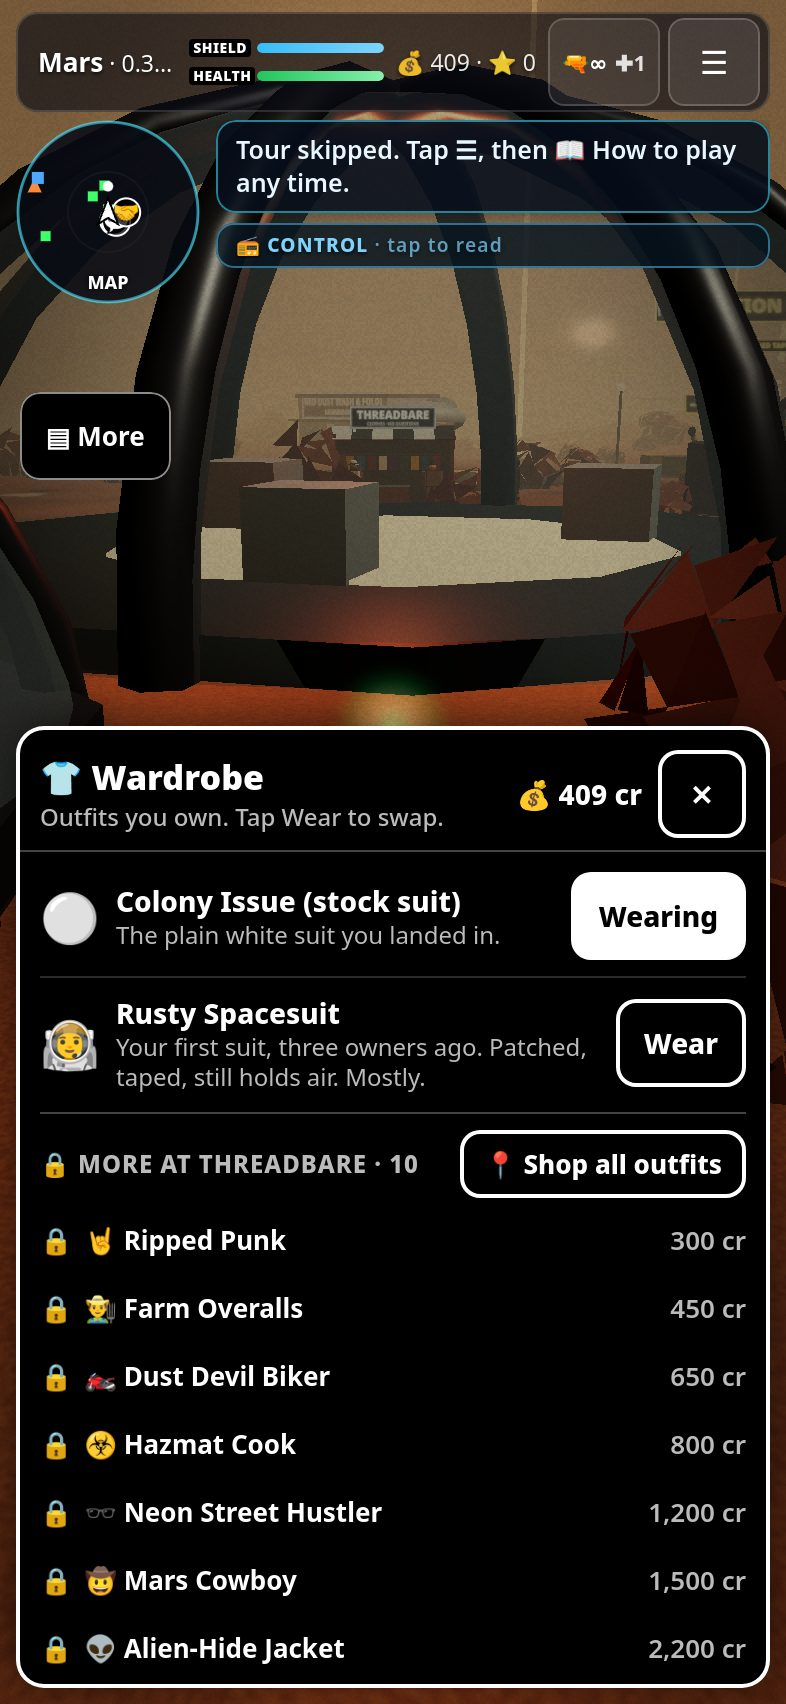
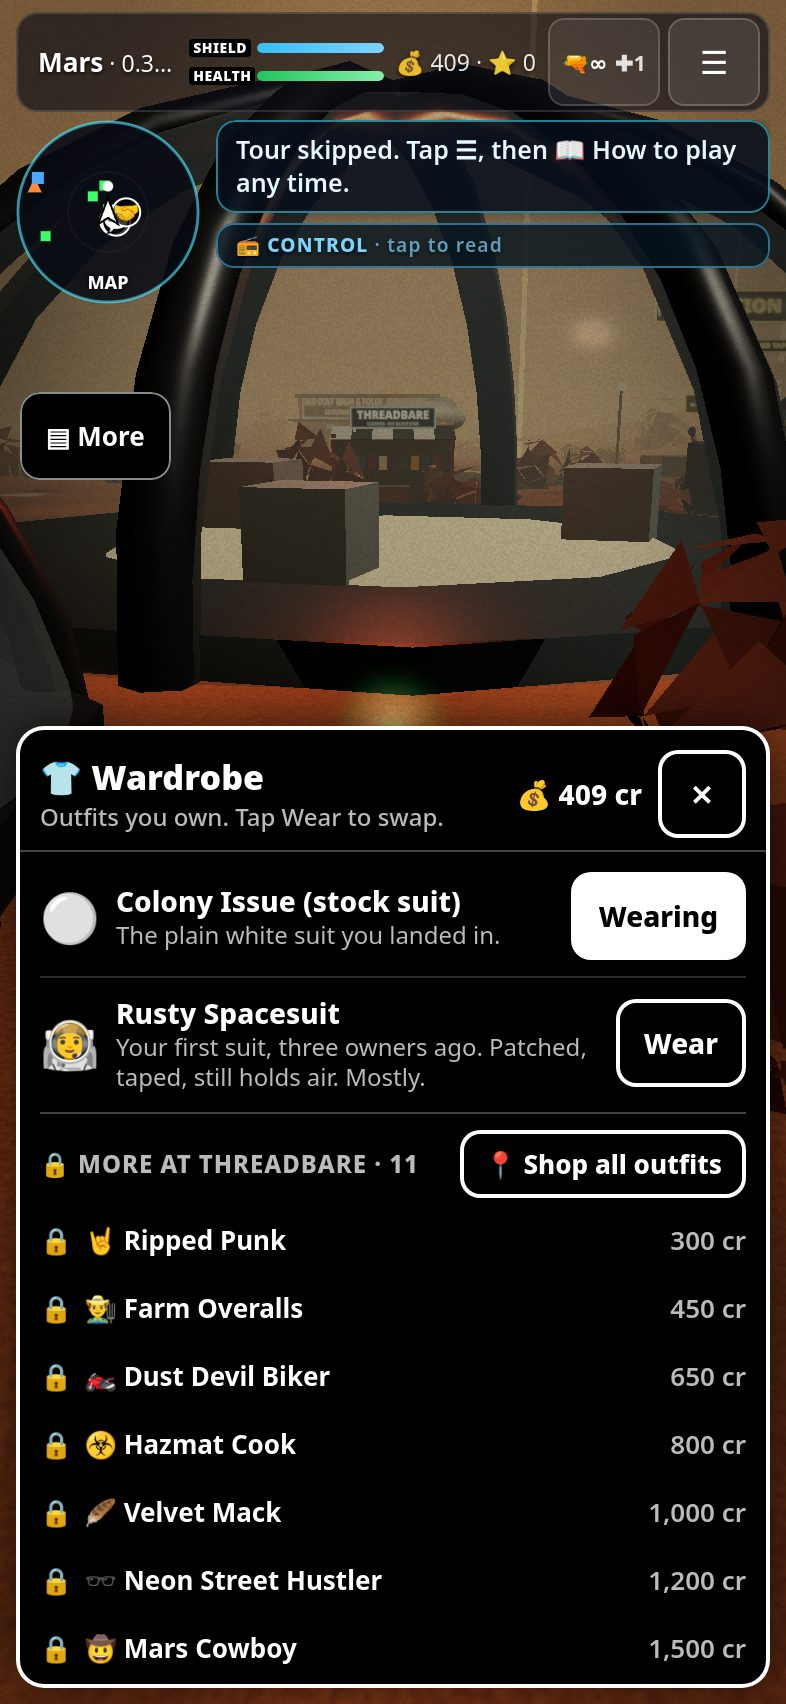
Threadbare: Velvet Mack skin (1,000 cr) — feathered brim, crushed-velvet suit + fur collar, gold chains, shades, jeweled cane that hides while a weapon is out; wardrobe/locked-row tests + shots

diff --git a/tests/test-velvet-mack.js b/tests/test-velvet-mack.js
@@ -1,0 +1,71 @@
+// Velvet Mack (mars/skinscore.js 'mack', 1,000 cr): sold at the Threadbare stall between Hazmat Cook and Neon Street Hustler,
+// buys with a real tap, goes on the player rig (hat + feather, velvet suit + fur collar, chains, shades, cane in the right
+// hand), and the cane (skin.prop) hides while a weapon is out: firing (2.5 s after the last shot) and the machete equipped,
+// then comes back. Shots: front, side, machete drawn.
+// BASE=http://127.0.0.1:8978/ BR=webkit DEV=393x852 QS='look=classic&models=1' SHOTS_DIR=... node tests/test-velvet-mack.js
+const { chromium, webkit, devices } = require('playwright');
+const base = process.env.BASE || 'http://127.0.0.1:8978/', BR = process.env.BR || 'webkit', DEV = process.env.DEV || '393x852', QS = process.env.QS ?? 'look=classic&models=1';
+const out = (process.env.SHOTS_DIR || require('path').join(__dirname, '..', 'shots')) + '/';
+const sleep = ms => new Promise(r => setTimeout(r, ms));
+const tag = `velvet-mack-${DEV}-${BR}`.replace(/[^a-z0-9]+/gi, '-').toLowerCase();
+(async () => {
+  require('fs').mkdirSync(out, { recursive: true });
+  const browser = await (BR === 'webkit' ? webkit : chromium).launch({ args: BR === 'chromium' ? ['--use-gl=angle', '--use-angle=swiftshader', '--enable-unsafe-swiftshader', '--ignore-gpu-blocklist'] : [] });
+  const m = /^(\d+)x(\d+)$/.exec(DEV), { defaultBrowserType: _d, ...iph } = devices['iPhone 14'];
+  const ctx = await browser.newContext({ ...iph, viewport: { width: +m[1], height: +m[2] }, screen: { width: +m[1], height: +m[2] }, deviceScaleFactor: 2 }); const page = await ctx.newPage();
+  const errors = []; page.on('pageerror', e => { if (!/audio device/i.test(e.message)) errors.push('PE ' + e.message); }); page.on('console', m => { if (m.type() === 'error' && !/audio device|Failed to load resource/i.test(m.text())) errors.push('CE ' + m.text().slice(0, 200)); });
+  const G = (f, a) => page.evaluate(f, a), R = { tag }, bad = [];
+  const ok = (k, v, cond) => { if (cond === undefined) cond = v; R[k] = v ?? !!cond; if (!cond) bad.push(k); console.log(`${cond ? 'PASS' : 'FAIL'} ${k} ${typeof v === 'boolean' ? '' : JSON.stringify(v)}`); };
+  const wait = async (f, ms = 30000, a) => { try { await page.waitForFunction(f, a, { timeout: ms, polling: 60 }); return true; } catch (e) { return false; } };
+  const shot = async s => { const p = `${out}${tag}-${s}.png`; try { await page.screenshot({ path: p, timeout: 120000 }); (R.shots ||= []).push(p); } catch (e) { (R.shotFail ||= []).push(p); } };
+  const P = (t, sel, id) => G(([t, sel, id]) => { const e = document.querySelector(sel); if (!e) return false; const r = e.getBoundingClientRect(); e.dispatchEvent(new PointerEvent(t, { pointerId: id, pointerType: 'touch', isPrimary: true, clientX: r.left + r.width / 2, clientY: r.top + r.height / 2, bubbles: true, cancelable: true, composed: true, buttons: t === 'pointerup' ? 0 : 1 })); return true; }, [t, sel, id]);
+  const tap = async sel => { const a = await P('pointerdown', sel, 61); await sleep(40); await P('pointerup', sel, 61); await sleep(150); return a; };
+  const cr = () => G(() => window.__app.surface.game.progress.credits);
+  const S = () => G(() => window.SSX.skins.state()), prop = () => G(() => window.SSX.skins.prop());
+  const atShop = async (d = 3) => { await G(d => { const p = window.SSX.skins.at(); window.__app.surface.debugPlace(p.x - Math.sin(p.yaw) * d, p.z - Math.cos(p.yaw) * d, p.yaw + Math.PI); }, d); await sleep(900); };
+  const cam = async yaw => { await G(yaw => { const s = window.__app.surface; s.setView('third'); s.zoom(0.45); s.look(0, -10, 1); s.look(yaw, 1.45 + 0.22, 1); }, yaw); await sleep(1000); };
+  try {
+    await page.goto(base + '?' + QS + (QS ? '&' : '') + 't=' + Date.now()); await wait(() => window.__frames > 3 && !document.getElementById('loading'), 120000);
+    await G(() => localStorage.clear()); await page.reload(); await wait(() => window.__frames > 3 && !document.getElementById('loading'), 120000);
+    await G(() => { localStorage.setItem('ssx.adult', '1'); localStorage.setItem('ssx.onboard.v1', '{"v":1,"status":"done","done":true,"skipped":true}'); });
+    await G(() => window.__app.landOn(window.__app.bodies.find(b => b.name === 'Mars').mesh));
+    await wait(() => window.__app.state.onSurface && !window.__app.state.transitioning && window.__app.surface.info?.intro === 0, 120000); await sleep(1000);
+    if (await G(() => { const r = document.getElementById('radio'); return !!r && getComputedStyle(r).display !== 'none'; })) await G(() => document.getElementById('radioLater')?.click());
+    await G(() => { try { window.SSX.onboard?.skip?.(); } catch (e) { } try { window.__app.surface.world.setWanted(0); window.__app.game?.setAliens?.(false); window.SSX.time?.set?.(13); window.SSX.time?.freeze?.(true); window.SSX.hudx?.setWaypoint?.(null, true); } catch (e) { /* */ } });
+    await wait(() => !!window.SSX?.skins && !!window.__skins?.stall?.() && !!window.__skins.player(), 20000);
+    const cat = await G(() => window.SSX.skins.list().map(k => k.id + ':' + k.price));
+    ok('catalogueOrder', cat, cat.join().includes('hazmat:800,mack:1000,hustler:1200') && cat.length === 12);
+    await G(() => { window.__app.surface.game.progress.credits = 1200; });
+    await atShop(3); ok('near', await G(() => window.SSX.skins.near()));
+    await tap('#skBtn'); ok('shopOpens', await wait(() => document.getElementById('skPanel').classList.contains('open') && /Threadbare/.test(document.querySelector('#skPanel .t').textContent), 4000));
+    await G(() => document.querySelector('#skPanel .row[data-id="mack"]')?.scrollIntoView({ block: 'center' })); await sleep(400);
+    const rowTx = await G(() => document.querySelector('#skPanel .row[data-id="mack"]')?.textContent || '');
+    ok('shopRow', rowTx, /Velvet Mack/.test(rowTx) && /Buy · 1,000 cr/.test(rowTx));
+    ok('shopRowOrder', await G(() => [...document.querySelectorAll('#skPanel .row')].map(r => r.dataset.id).slice(4, 7).join()), (await G(() => [...document.querySelectorAll('#skPanel .row')].map(r => r.dataset.id).slice(4, 7).join())) === 'hazmat,mack,hustler');
+    await shot('shop-row');
+    await tap('#skPanel .row[data-id="mack"] button'); await sleep(400);
+    const s1 = await S(); ok('bought', { s1, cr: await cr() }, s1.owned.includes('mack') && s1.eq === 'mack' && s1.applied === 'mack' && s1.parts >= 10 && (await cr()) === 200);
+    await tap('#skPanel button[data-a="x"]');
+    const p0 = await prop(); ok('caneShown', p0, p0.shown && p0.meshes >= 3 && !p0.out);
+    ok('caneInHand', await G(() => { const a = window.__skins.player().applied, k = window.__skins.C.BY_ID.mack; return a.anchors.filter(an => an.children.some(o => k.prop.some(key => o.material === window.__skins.mats.get(window.__skins.C.matKey(window.__skins.C.matSpec(k, key)))))).map(an => an.name); }), true);
+    await atShop(4.5); await cam(Math.PI); await shot('front');
+    await cam(Math.PI / 2); await shot('side');
+    // the machete drawn: cane hides; back to the blaster: cane back
+    await G(() => { const g = window.__app.surface.game; if (!g.progress.unlocks.includes('melee:blade')) g.progress.unlocks.push('melee:blade'); g.switchWeapon('blade'); }); await sleep(600);
+    const p3 = await prop(); ok('caneHidesMelee', { p3, w: await G(() => window.__app.surface.game.progress.equip.weapon) }, p3.out === 'melee' && !p3.shown);
+    await cam(Math.PI * 0.75); await shot('weapon-drawn');
+    await G(() => window.__app.surface.game.switchWeapon('rifle')); await sleep(600);
+    const p4 = await prop(); ok('caneBackAfterMelee', { p4, w: await G(() => window.__app.surface.game.progress.equip.weapon) }, p4.shown && !p4.out);
+    // firing (a shot counted, without real bolts in town, which brings the cops): cane hides, back ~2.5 s after the last shot
+    await G(() => { const st = window.__app.surface.game.progress.stats; st.shots = (st.shots || 0) + 1; }); await sleep(300);
+    const p1 = await prop(), shots = await G(() => window.__app.surface.game.progress.stats?.shots);
+    ok('caneHidesFiring', { p1, shots }, p1.out === 'firing' && !p1.shown);
+    await sleep(3000); const p2 = await prop(); ok('caneBackAfterFiring', p2, p2.shown && !p2.out);
+    // another skin: no prop
+    await G(() => window.SSX.skins.equip('rusty')); await sleep(300); const p5 = await prop(); ok('noPropOtherSkin', p5, p5.meshes === 0);
+    await G(() => window.SSX.skins.equip('mack')); await sleep(300); ok('reEquipCane', await prop(), (await prop()).shown);
+  } catch (e) { bad.push('EXC ' + e.message); console.log(e.stack); }
+  ok('noErrors', errors.slice(0, 5), errors.length === 0);
+  R.bad = bad; console.log(bad.length ? `FAIL ${tag}: ${bad.join(', ')}` : `ALL PASS ${tag}`);
+  await browser.close(); process.exit(bad.length ? 1 : 0);
+})();

diff --git a/tests/test-wardrobe.js b/tests/test-wardrobe.js
@@ -2,9 +2,9 @@
 // 'Shop all outfits' button that sets the HUD waypoint (➤ + blue beam) to the Threadbare counter and closes the panel, and
 // at the counter a Buy button per locked row that goes through the shop's buy() (credits, ownership, auto-wear; greyed and
 // refused when you can't afford it; a swipe never buys). The panel stays black / white and does not grow past 56vh.
-// BASE=http://127.0.0.1:8977/ BR=webkit DEV=393x852 QS='look=classic&models=1' SHOTS_DIR=... node tests/test-wardrobe.js
+// BASE=http://127.0.0.1:8978/ BR=webkit DEV=393x852 QS='look=classic&models=1' SHOTS_DIR=... node tests/test-wardrobe.js
 const { chromium, webkit, devices } = require('playwright');
-const base = process.env.BASE || 'http://127.0.0.1:8977/', BR = process.env.BR || 'webkit', DEV = process.env.DEV || '393x852', QS = process.env.QS ?? 'look=classic&models=1';
+const base = process.env.BASE || 'http://127.0.0.1:8978/', BR = process.env.BR || 'webkit', DEV = process.env.DEV || '393x852', QS = process.env.QS ?? 'look=classic&models=1';
 const out = (process.env.SHOTS_DIR || require('path').join(__dirname, '..', 'shots')) + '/';
 const sleep = ms => new Promise(r => setTimeout(r, ms));
 const tag = `wardrobe-${DEV}-${BR}`.replace(/[^a-z0-9]+/gi, '-').toLowerCase();
@@ -47,9 +47,10 @@ const tag = `wardrobe-${DEV}-${BR}`.replace(/[^a-z0-9]+/gi, '-').toLowerCase();
     ok('wardrobeOpens', await viaMenu());
     const r0 = await rows();
     ok('ownedRowsUnchanged', r0.owned, r0.owned.join() === 'stock,rusty');
-    ok('lockedRows', r0.locked, r0.locked.join() === 'punk,overalls,biker,hazmat,hustler,cowboy,alien,clown,kingpin,chrome');
+    ok('lockedRows', r0.locked, r0.locked.join() === 'punk,overalls,biker,hazmat,mack,hustler,cowboy,alien,clown,kingpin,chrome');
     ok('lockedLook', await G(() => { const r = document.querySelector('#skPanel .lk'); return { t: r.textContent, h: Math.round(r.getBoundingClientRect().height) }; }), await G(() => { const r = document.querySelector('#skPanel .lk'); return /🔒/.test(r.textContent) && /Ripped Punk/.test(r.textContent) && /300 cr/.test(r.textContent) && r.getBoundingClientRect().height <= 40; }));
     ok('noBuyFar', r0.buys, r0.buys.length === 0);
+    ok('mackLocked', await G(() => document.querySelector('#skPanel .lk[data-id="mack"]')?.textContent || ''), /Velvet Mack/.test(await G(() => document.querySelector('#skPanel .lk[data-id="mack"]')?.textContent || '')) && /1,000 cr/.test(await G(() => document.querySelector('#skPanel .lk[data-id="mack"]')?.textContent || '')));
     const sty = await G(() => { const p = document.getElementById('skPanel'), c = getComputedStyle(p), r = p.getBoundingClientRect(), l = p.querySelector('.list'); return { bg: c.backgroundColor, fg: c.color, h: Math.round(r.height), vh: innerHeight, scroll: l.scrollHeight > l.clientHeight }; });
     ok('blackWhiteCompact', sty, sty.bg === 'rgb(0, 0, 0)' && sty.fg === 'rgb(255, 255, 255)' && sty.h <= Math.ceil(sty.vh * 0.56) + 4);
     ok('shopBtn', await G(() => document.querySelector('#skPanel button[data-a="goshop"]')?.textContent), /Shop all outfits/.test(await G(() => document.querySelector('#skPanel button[data-a="goshop"]')?.textContent || '')));
@@ -69,7 +70,7 @@ const tag = `wardrobe-${DEV}-${BR}`.replace(/[^a-z0-9]+/gi, '-').toLowerCase();
     ok('nearStall', await G(() => window.SSX.skins.near()));
     ok('wardrobeOpensNear', await viaMenu());
     const r1 = await rows();
-    ok('buyButtonsNear', r1.buys, r1.buys.length === 10 && r1.buys[0] === 'punk' && r1.buys.slice(1).every(b => /:no$/.test(b)));
+    ok('buyButtonsNear', r1.buys, r1.buys.length === 11 && r1.buys[0] === 'punk' && r1.buys.slice(1).every(b => /:no$/.test(b)));
     ok('openShopBtnNear', await G(() => document.querySelector('#skPanel button[data-a="goshop"]')?.textContent || ''), /Open shop/.test(await G(() => document.querySelector('#skPanel button[data-a="goshop"]')?.textContent || '')));
     await sleep(300); await shot('3-near-buy');
     // greyed: refused, nothing spent; a swipe over Buy never buys
@@ -80,7 +81,7 @@ const tag = `wardrobe-${DEV}-${BR}`.replace(/[^a-z0-9]+/gi, '-').toLowerCase();
     await tap('#skPanel .lk[data-id="punk"] button'); await sleep(400);
     const s1 = await S(), r2 = await rows();
     ok('boughtPunk', { s1, cr: await cr(), toast: await toastTx() }, s1.owned.includes('punk') && s1.eq === 'punk' && s1.applied === 'punk' && (await cr()) === 109);
-    ok('rowsAfterBuy', r2, r2.owned.join() === 'stock,rusty,punk' && !r2.locked.includes('punk') && r2.locked.length === 9 && (await open()));
+    ok('rowsAfterBuy', r2, r2.owned.join() === 'stock,rusty,punk' && !r2.locked.includes('punk') && r2.locked.length === 10 && (await open()));
     ok('sameAsShop', await G(() => { const k = JSON.parse(localStorage.getItem('ssx.skins.v1')); return k.owned.includes('punk') && k.eq === 'punk'; }));
     await sleep(300); await shot('4-after-buy');
     // walk away with it open: the Buy buttons go

diff --git a/mars/skinscore.js b/mars/skinscore.js
@@ -83,6 +83,27 @@ export const SKINS = [
       ['armL', 'cyl', [0.1, 0.1, 0.14, 8], [0, -0.63, 0], 0, 'glove'], ['armR', 'cyl', [0.1, 0.1, 0.14, 8], [0, -0.63, 0], 0, 'glove'],
       ['legL', 'cyl', [0.13, 0.13, 0.28, 8], [0, -0.74, 0], 0, 'glove'], ['legR', 'cyl', [0.13, 0.13, 0.28, 8], [0, -0.74, 0], 0, 'glove']
     ] }),
+  // prop: palette keys that make up a hand-held prop (the cane): skins.js hides those meshes while a weapon is out
+  S('mack', 'Velvet Mack', 1000, 'Crushed purple velvet, fur collar, feathered brim, gold chains and a jeweled cane.', {
+    icon: '🪶', face: true, prop: ['cane', 'knob', 'jewel'],
+    pal: { skin: 0x7a4a30, torso: { c: 0x5a1460, r: 0.95, e: 0x14021c }, arms: { c: 0x5a1460, r: 0.95, e: 0x14021c }, legs: { c: 0x5a1460, r: 0.95, e: 0x14021c }, pack: null, chest: 0xd04a9a, boots: 0xf0eee8,
+      velvet: { c: 0x5a1460, r: 0.95, e: 0x14021c }, fur: { c: 0xf4efe6, r: 1 }, hat: { c: 0x48104e, r: 0.9, e: 0x0e0012 }, band: { c: 0xf2c84a, r: 0.3, m: 0.65, e: 0x2a1e00 }, plume: { c: 0xff5ac8, r: 0.9, e: 0x3a0a2a },
+      shade: { c: 0x120a18, r: 0.1, m: 0.6 }, cane: { c: 0x120a0e, r: 0.25, m: 0.3 }, knob: { c: 0xf6cc50, r: 0.25, m: 0.75, e: 0x2e2000 }, jewel: { c: 0xe0103a, r: 0.15, m: 0.4, e: 0x6a0010 }, silk: 0xff5ac8 },
+    parts: [
+      ['head', 'cyl', [0.37, 0.37, 0.02, 16], [0, 0.12, 0], [-0.1, 0, 0.06], 'hat', [1, 1, 0.9]], ['head', 'cyl', [0.14, 0.165, 0.2, 12], [0, 0.23, 0], [-0.06, 0, 0.05], 'hat'],
+      ['head', 'cyl', [0.168, 0.168, 0.04, 12], [0, 0.15, 0], [-0.06, 0, 0.05], 'band'],
+      ['head', 'sph', [0.028, 6, 4], [0.165, 0.27, 0.05], [0, 0, -0.45], 'plume', [1, 5.5, 1.2]], ['head', 'sph', [0.02, 6, 4], [0.19, 0.25, 0.08], [0, 0, -0.7], 'plume', [1, 4, 1]],
+      ['head', 'box', [0.27, 0.055, 0.03], [0, 0.03, -0.165], 0, 'shade'], ['head', 'box', [0.28, 0.012, 0.035], [0, 0.058, -0.166], 0, 'gold'],
+      ['head', 'tor', [0.13, 0.03, 6, 16], [0, -0.22, -0.05], [Math.PI / 2 - 0.65, 0, 0], 'gold'],
+      ['torso', 'tor', [0.17, 0.022, 6, 16], [0, 0.17, -0.09], [Math.PI / 2 - 0.95, 0, 0], 'gold'], ['torso', 'cyl', [0.06, 0.06, 0.025, 12], [0, 0.0, -0.205], [Math.PI / 2, 0, 0], 'gold'],
+      ['torso', 'tor', [0.22, 0.07, 6, 14], [0, 0.31, 0], [Math.PI / 2, 0, 0], 'fur', [1.15, 0.85, 1]],
+      ['torso', 'box', [0.08, 0.44, 0.03], [-0.12, 0.06, -0.19], [0, 0, 0.22], 'fur'], ['torso', 'box', [0.08, 0.44, 0.03], [0.12, 0.06, -0.19], [0, 0, -0.22], 'fur'],
+      ['torso', 'box', [0.62, 0.26, 0.4], [0, -0.4, 0], 0, 'velvet'], ['torso', 'box', [0.06, 0.05, 0.02], [0.2, 0.14, -0.19], 0, 'silk'],
+      ['armL', 'cyl', [0.11, 0.11, 0.08, 8], [0, -0.58, 0], 0, 'fur'], ['armR', 'cyl', [0.11, 0.11, 0.08, 8], [0, -0.58, 0], 0, 'fur'],
+      ['armR', 'cyl', [0.018, 0.018, 0.8, 6], [0, -1.08, -0.05], 0, 'cane'], ['armR', 'sph', [0.05, 10, 8], [0, -0.67, -0.05], 0, 'knob'],
+      ['armR', 'cyl', [0.03, 0.03, 0.03, 8], [0, -0.72, -0.05], 0, 'knob'], ['armR', 'sph', [0.022, 8, 6], [0, -0.66, -0.098], 0, 'jewel'], ['armR', 'sph', [0.02, 8, 6], [0, -0.62, -0.05], 0, 'jewel'],
+      ['legL', 'cyl', [0.14, 0.16, 0.16, 8], [0, -0.78, 0], 0, 'velvet'], ['legR', 'cyl', [0.14, 0.16, 0.16, 8], [0, -0.78, 0], 0, 'velvet']
+    ] }),
   S('hustler', 'Neon Street Hustler', 1200, 'Purple tracksuit, glow stripes, backwards cap, shades at night.', {
     icon: '🕶', face: true,
     pal: { skin: 0x8a5a3c, torso: 0x4a167a, arms: 0x4a167a, legs: 0x4a167a, pack: null, chest: { c: 0x39ffea, e: 0x0a8a80 }, boots: 0xf0f0f0, neon: { c: 0x39ffea, e: 0x14b0a4, r: 0.5 }, pink: { c: 0xff2ad4, e: 0x8a0a70 }, cap: 0x111111 },

diff --git a/mars/skins.js b/mars/skins.js
@@ -334,6 +334,25 @@ function wardrobeBuy(id) {
   if (!nearShop() && !api.__anywhere) { toast('👕 Buy it at Threadbare, downtown Ares Junction.'); render(); return { ok: false, why: 'far' }; }
   return buy(id);
 }
+// ---------- hand props (Velvet Mack's cane): hidden while a weapon is out, back after (all feature-detected) ----------
+// A skin's prop: [palette keys] are the materials of its hand-held prop; those meshes hide while you fire (2.5 s after the
+// last shot, game.progress.stats.shots), hold the flamer (SSX.flame.state().eq) or have the machete / cleaver equipped.
+const PROP = { out: null, shots: -1, shotT: -9, n: 0 };
+function weaponOut() {
+  const P = tryv(() => game()?.progress), now = performance.now() / 1000, sh = +tryv(() => P.stats.shots, NaN);
+  if (Number.isFinite(sh)) { if (PROP.shots >= 0 && sh > PROP.shots) PROP.shotT = now; PROP.shots = sh; }
+  if (now - PROP.shotT < 2.5) return 'firing';
+  if (tryv(() => X().flame?.state?.().eq)) return 'flamer';
+  const w = tryv(() => P.equip.weapon); if (w === 'blade' || w === 'cleaver') return 'melee';
+  return null;
+}
+function syncProp() {
+  const a = player?.applied, k = a && C.BY_ID[a.id]; if (!k?.prop) { PROP.out = null; PROP.n = 0; return; }
+  const out = weaponOut(), ms = new Set(k.prop.map(key => mat(C.matSpec(k, key)))); let n = 0;
+  for (const an of a.anchors) for (const o of an.children) if (ms.has(o.material)) { o.visible = !out; n++; }
+  PROP.out = out; PROP.n = n;
+}
+setInterval(() => { try { syncProp(); } catch (e) { /* */ } }, 120);
 // walking up to / away from the counter with the Wardrobe open shows / hides the Buy buttons
 setInterval(() => { try { if (panel?.classList.contains('open') && mode === 'wardrobe' && !!(nearShop() || api.__anywhere) !== wNear) render(); } catch (e) { /* */ } }, 500);
 
@@ -361,4 +380,4 @@ const attach = () => { const w = window; if (!w.SSX) w.SSX = {}; if (w.SSX.skins
 attach(); (function boot(n = 0) { attach(); if (n < 150 && !(ticking && menuBtn?.isConnected && window.__app)) setTimeout(() => boot(n + 1), 100); })();
 setInterval(attach, 1500);
 export default api;
-Object.assign(api, { goShop, wardrobeBuy, locked: () => C.locked(st, credits(), nearShop()) });
+Object.assign(api, { goShop, wardrobeBuy, locked: () => C.locked(st, credits(), nearShop()), prop: () => (syncProp(), { out: PROP.out, meshes: PROP.n, shown: !PROP.out && PROP.n > 0 }) });
